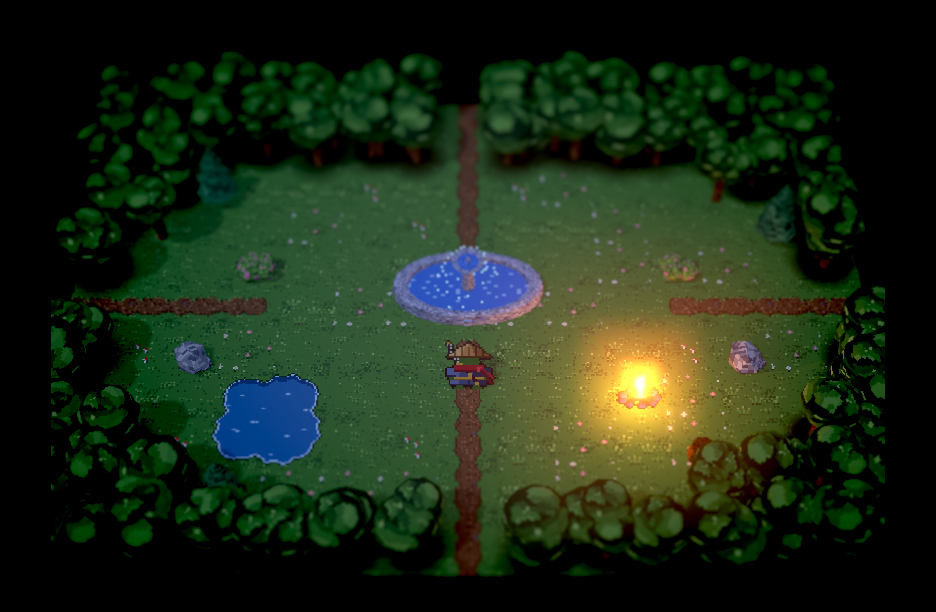
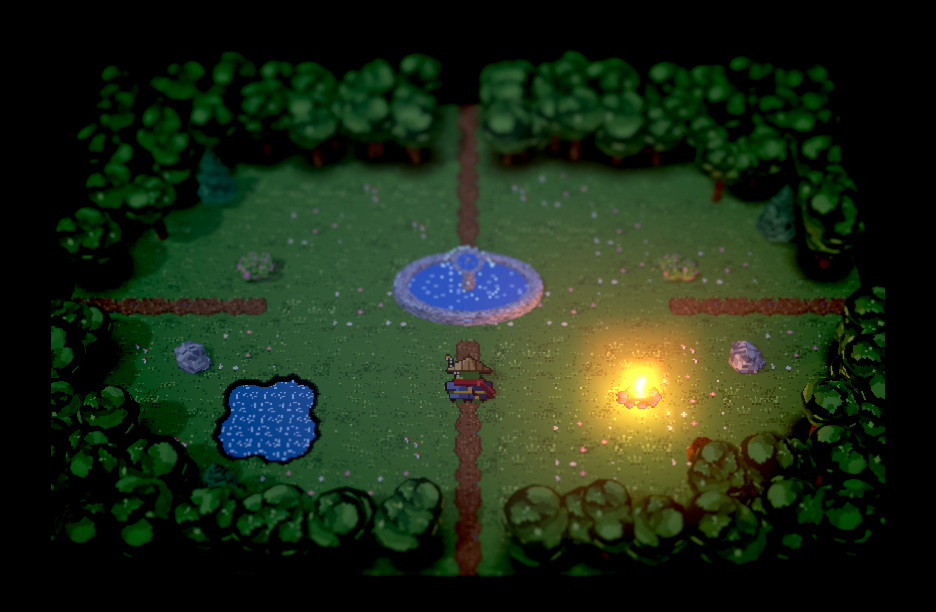
Prototipo HD-2D: charcos hundidos con orilla oscura y agua que brilla
Agujeros en el suelo donde los tiles de agua pintan agua; debajo, una lámina con los azules del propio tile y un fondo oscuro que hace de orilla.

Changed region(s): [[0.2169, 0.5899, 0.3408, 0.7761], [0.4647, 0.5588, 0.5267, 0.683], [0.4647, 0.4036, 0.5267, 0.4967]]

diff --git a/src/prototipo/charcos.ts b/src/prototipo/charcos.ts
@@ -1,0 +1,112 @@
+// shortcut: charcos hundidos para el prototipo HD-2D; en la v2, igual para el agua y las fosas de cada zona.
+import * as THREE from 'three';
+import { ruido } from './fuente';
+
+export interface AjustesCharcos {
+  /** Cuánto bajan, en casillas, el agua y el fondo oscuro que se ve en la orilla. */
+  nivel: number;
+  fondo: number;
+  /** Píxeles de orilla oscura entre el borde del suelo y el agua. */
+  orilla: number;
+  colorFondo: string;
+  brillo: number;
+}
+
+/**
+ * Hunde el agua: abre agujeros en el lienzo del suelo donde los tiles de agua pintan agua (sus píxeles azules)
+ * y pone debajo una lámina que brilla y se mueve y, más abajo, un fondo oscuro que se ve como orilla.
+ * Los colores salen de los propios píxeles del agua. Devuelve null si la sala no tiene agua.
+ */
+export function crearCharcos(
+  suelo: HTMLCanvasElement,
+  esAgua: readonly boolean[],
+  columnas: number,
+  tam: number,
+  a: AjustesCharcos,
+  azar: () => number,
+): { grupo: THREE.Group; actualizar: (tiempo: number) => void } | null {
+  const ancho = suelo.width;
+  const alto = suelo.height;
+  const ctx = suelo.getContext('2d')!;
+  const datos = ctx.getImageData(0, 0, ancho, alto);
+  const px = datos.data;
+  const agua = new Uint8Array(ancho * alto);
+  const cuenta = new Map<number, number>();
+  for (let y = 0; y < alto; y++) {
+    for (let x = 0; x < ancho; x++) {
+      if (!esAgua[Math.floor(y / tam) * columnas + Math.floor(x / tam)]) continue;
+      const i = (y * ancho + x) * 4;
+      const [r = 0, g = 0, b = 0] = [px[i], px[i + 1], px[i + 2]];
+      if (!(b > r + 20 && b > g)) continue; // el borde del charco no es azul: se queda como orilla del suelo
+      agua[y * ancho + x] = 1;
+      px[i + 3] = 0;
+      const color = (r << 16) | (g << 8) | b;
+      cuenta.set(color, (cuenta.get(color) ?? 0) + 1);
+    }
+  }
+  if (cuenta.size === 0) return null;
+  ctx.putImageData(datos, 0, 0);
+
+  // La lámina de agua es algo más pequeña que el agujero: lo que queda entre los dos es la orilla oscura.
+  const mascara = document.createElement('canvas');
+  mascara.width = ancho;
+  mascara.height = alto;
+  const mctx = mascara.getContext('2d')!;
+  const mdatos = mctx.createImageData(ancho, alto);
+  for (let y = 0; y < alto; y++) {
+    for (let x = 0; x < ancho; x++) {
+      let dentro = true;
+      for (let dy = -a.orilla; dy <= a.orilla && dentro; dy++) {
+        for (let dx = -a.orilla; dx <= a.orilla && dentro; dx++) {
+          const xx = x + dx;
+          const yy = y + dy;
+          dentro = xx >= 0 && yy >= 0 && xx < ancho && yy < alto && agua[yy * ancho + xx] === 1;
+        }
+      }
+      const i = (y * ancho + x) * 4;
+      const v = dentro ? 255 : 0;
+      mdatos.data[i] = mdatos.data[i + 1] = mdatos.data[i + 2] = v;
+      mdatos.data[i + 3] = 255;
+    }
+  }
+  mctx.putImageData(mdatos, 0, 0);
+  const texMascara = new THREE.CanvasTexture(mascara);
+  texMascara.magFilter = texMascara.minFilter = THREE.NearestFilter;
+  texMascara.generateMipmaps = false;
+
+  // Los dos azules más usados del agua, oscuro y claro, con mucho más del oscuro.
+  const brillo = (c: number): number => ((c >> 16) & 255) + ((c >> 8) & 255) + (c & 255);
+  const azules = [...cuenta.entries()]
+    .sort((x, y) => y[1] - x[1])
+    .slice(0, 2)
+    .map(([c]) => c)
+    .sort((x, y) => brillo(x) - brillo(y));
+  const texAgua = ruido(azules, [0.88, 0.12], azar, (ancho / tam) * 2, (alto / tam) * 2);
+
+  const grupo = new THREE.Group();
+  const lamina = new THREE.Mesh(
+    new THREE.PlaneGeometry(ancho / tam, alto / tam),
+    new THREE.MeshPhongMaterial({
+      map: texAgua,
+      alphaMap: texMascara,
+      alphaTest: 0.5,
+      shininess: 90,
+      specular: new THREE.Color(a.brillo, a.brillo, a.brillo),
+    }),
+  );
+  lamina.position.y = -a.nivel;
+  const fondo = new THREE.Mesh(
+    new THREE.PlaneGeometry(ancho / tam, alto / tam),
+    new THREE.MeshLambertMaterial({ color: a.colorFondo }),
+  );
+  fondo.position.y = -a.fondo;
+  for (const m of [lamina, fondo]) {
+    m.rotation.x = -Math.PI / 2;
+    m.receiveShadow = true;
+    grupo.add(m);
+  }
+  return {
+    grupo,
+    actualizar: (tiempo) => texAgua.offset.set(tiempo * 0.02, tiempo * 0.013),
+  };
+}

diff --git a/src/prototipo/hd2d.ts b/src/prototipo/hd2d.ts
@@ -22,6 +22,7 @@ import { iniciarBucle } from '../render/bucle';
 import { cargarSprite, cargarTilesets } from '../render/recursos';
 import { dibujarTile } from '../render/sala';
 import { crearFuente, ruido } from './fuente';
+import { crearCharcos } from './charcos';
 import { crearModelo } from './modelos';
 
 // shortcut: números de prueba en el código; si la v2 sigue adelante, pasan a src/data/.
@@ -46,6 +47,8 @@ const AJUSTES = {
     /** Sombra en el suelo bajo cada copa: radio (por el de la copa) y opacidad en el centro. */
     sombra: { radio: 1.3, fuerza: 0.7 },
   },
+  /** Charcos hundidos: alto del agua y del fondo bajo el suelo (casillas), píxeles de orilla, color del fondo y brillo. */
+  charcos: { nivel: 0.05, fondo: 0.12, orilla: 2, colorFondo: '#1d2a22', brillo: 0.6 },
   /** Colores de la corteza (clara, media, oscura). */
   corteza: [0x9a6a42, 0x7a5233, 0x5a3b26],
   /** Fracción de la inclinación de la cámara que se echan atrás los sprites (1 = de cara; menos, para no meterse en los muros). */
@@ -136,40 +139,43 @@ async function iniciar(): Promise<void> {
   // Suelo: un plano con los tiles de fondo de la sala. Bajo el bosque, hierba con una sombra
   // redonda por árbol, para que el borde sea irregular y no un rectángulo oscuro.
   const hierba = [...catalogo.values()].find((t) => t.layer === 'suelo' && t.weight);
+  const lienzoSuelo = pintar(sala.ancho, sala.alto, tam, (ctx) => {
+    sala.base.forEach((t, i) => {
+      const fondo = t.layer === 'muro' ? (hierba ?? t) : t;
+      dibujarTile(
+        ctx,
+        imagenes,
+        fondo,
+        tam,
+        (i % sala.ancho) * tam,
+        Math.floor(i / sala.ancho) * tam,
+      );
+    });
+    for (const a of arboles) {
+      const r = a.radio * c.sombra.radio * tam;
+      const sombra = ctx.createRadialGradient(a.x * tam, a.z * tam, 0, a.x * tam, a.z * tam, r);
+      sombra.addColorStop(0, `rgba(10, 18, 12, ${c.sombra.fuerza})`);
+      sombra.addColorStop(1, 'rgba(10, 18, 12, 0)');
+      ctx.fillStyle = sombra;
+      ctx.fillRect(a.x * tam - r, a.z * tam - r, r * 2, r * 2);
+    }
+  });
+  // Charcos: agujeros en el suelo con el agua hundida debajo.
+  const charcos = crearCharcos(
+    lienzoSuelo,
+    sala.base.map((t) => t.name.startsWith('agua_')),
+    sala.ancho,
+    tam,
+    AJUSTES.charcos,
+    crearAzar(41),
+  );
+  if (charcos) {
+    charcos.grupo.position.set(centro.x, 0, centro.z);
+    escena.add(charcos.grupo);
+  }
   const suelo = new THREE.Mesh(
     new THREE.PlaneGeometry(sala.ancho, sala.alto),
-    new THREE.MeshLambertMaterial({
-      map: textura(
-        pintar(sala.ancho, sala.alto, tam, (ctx) => {
-          sala.base.forEach((t, i) => {
-            const fondo = t.layer === 'muro' ? (hierba ?? t) : t;
-            dibujarTile(
-              ctx,
-              imagenes,
-              fondo,
-              tam,
-              (i % sala.ancho) * tam,
-              Math.floor(i / sala.ancho) * tam,
-            );
-          });
-          for (const a of arboles) {
-            const r = a.radio * c.sombra.radio * tam;
-            const sombra = ctx.createRadialGradient(
-              a.x * tam,
-              a.z * tam,
-              0,
-              a.x * tam,
-              a.z * tam,
-              r,
-            );
-            sombra.addColorStop(0, `rgba(10, 18, 12, ${c.sombra.fuerza})`);
-            sombra.addColorStop(1, 'rgba(10, 18, 12, 0)');
-            ctx.fillStyle = sombra;
-            ctx.fillRect(a.x * tam - r, a.z * tam - r, r * 2, r * 2);
-          }
-        }),
-      ),
-    }),
+    new THREE.MeshLambertMaterial({ map: textura(lienzoSuelo), alphaTest: 0.5 }),
   );
   suelo.rotation.x = -Math.PI / 2;
   suelo.position.set(centro.x, 0, centro.z);
@@ -350,6 +356,7 @@ async function iniciar(): Promise<void> {
       }
       for (const a of animados) pintarPieza(a, imagenes, tam, tiempo);
       fuente?.actualizar(tiempo);
+      charcos?.actualizar(tiempo);
       const p = AJUSTES.hoguera.parpadeo;
       fuego.intensity =
         AJUSTES.hoguera.intensidad *
